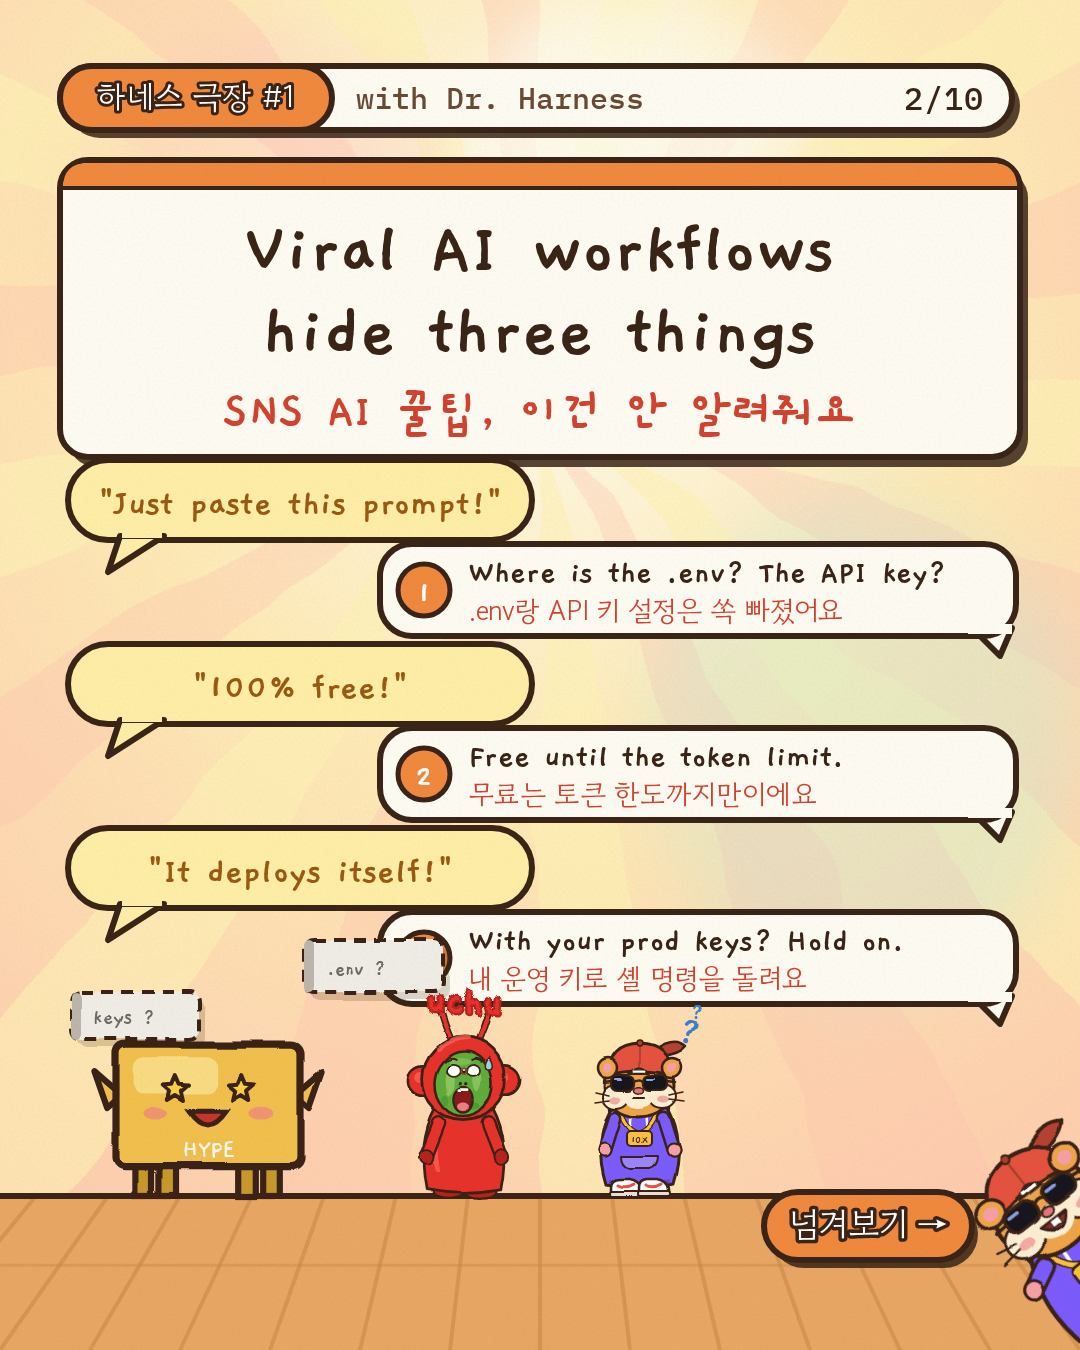
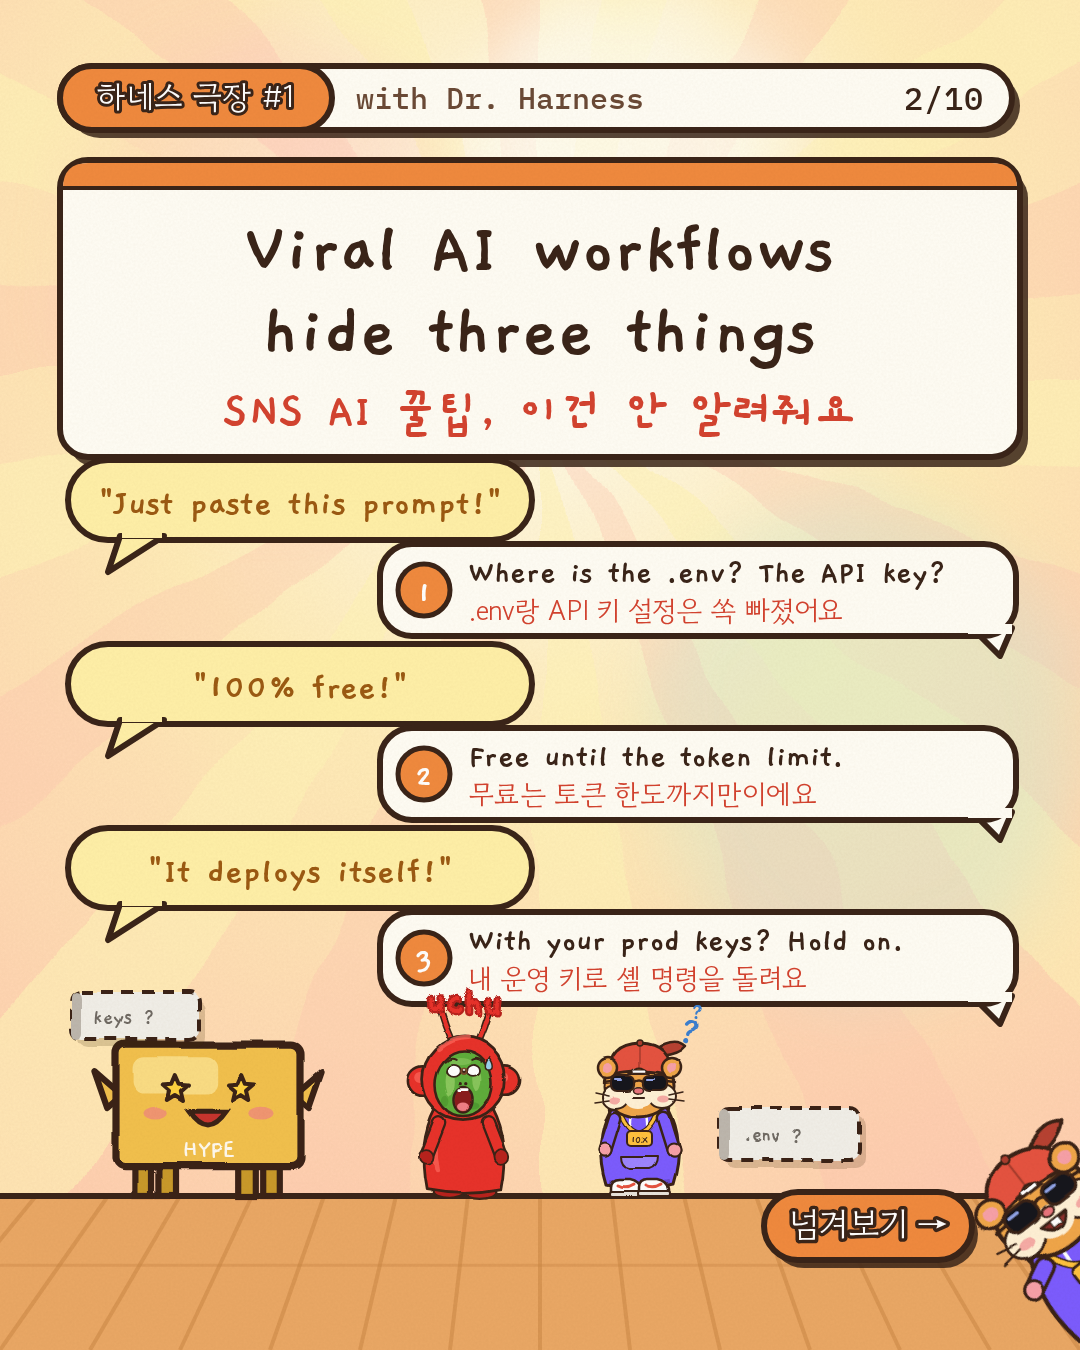
Long-form: add Uchu (8 shots, thumbnail D); hub page facts
Claude-Session: https://claude.ai/code/session_016ywse4vnrK6i452DYWowwZ

Changed region(s): [[0.6417, 0.8089, 0.825, 0.8711], [0.275, 0.6844, 0.4278, 0.7467]]

diff --git a/docs/video/index.html b/docs/video/index.html
@@ -73,11 +73,11 @@
     <div class="formats">
       <article class="fmt">
         <div class="pic"><img src="renders/web/reel_cover.jpg" alt="Vertical 3D cover: the hamster cheers under the words IT SAID FREE." width="540" height="960"></div>
-        <div class="body"><span class="tag" style="background:#ffd23f">Instagram Reel · YouTube Short</span><h3>30-second Reel</h3><p>9:16, 13 shots, payoff-first hook, loop ending.</p><ul><li>Hook: "It said <b>FREE</b>." / "<b>공짜</b>라며?"</li><li>Safe-zone overlay, posting kit, hook alternatives</li><li>Scored by a critic agent, then remade</li></ul><a class="btn" href="reels.html">Open the Reel</a></div>
+        <div class="body"><span class="tag" style="background:#ffd23f">Instagram Reel · YouTube Short</span><h3>30-second Reel</h3><p>9:16, 13 shots, payoff-first hook, loop ending.</p><ul><li>Hook: "It said <b>FREE</b>." / "<b>공짜</b>라며?"</li><li>Safe-zone overlay, posting kit, hook alternatives</li><li>Uchu, the shocked co-star, in the hook and the reveal</li><li>Scored by a critic agent, then remade</li></ul><a class="btn" href="reels.html">Open the Reel</a></div>
       </article>
       <article class="fmt">
         <div class="pic wide"><img src="renders/web/hero_kanban.jpg" alt="3D render: five colored agent boxes and the hamster in front of a four-column Kanban board." width="1280" height="720"></div>
-        <div class="body"><span class="tag" style="background:#8fb8ff">YouTube long-form</span><h3>13:53 deep dive</h3><p>16:9, 34 shots in 8 chapters, full script (about 1,930 words).</p><ul><li>Every 10XAI agent gets an introduction</li><li>Screen-recording beats of the real board</li><li>Thumbnails, titles, description, retention plan</li></ul><a class="btn" href="youtube.html">Open the long-form</a></div>
+        <div class="body"><span class="tag" style="background:#8fb8ff">YouTube long-form</span><h3>14:05 deep dive</h3><p>16:9, 34 shots in 8 chapters, full script (about 1,950 words).</p><ul><li>Every 10XAI agent gets an introduction; Uchu reacts in 8 shots</li><li>Screen-recording beats of the real board</li><li>Thumbnails, titles, description, retention plan</li></ul><a class="btn" href="youtube.html">Open the long-form</a></div>
       </article>
       <article class="fmt">
         <div class="pic"><img src="cardnews/slide-01.png" alt="Card news cover slide: It said FREE. We measured. '무료'라며? 직접 재봤어요" width="1080" height="1350"></div>

diff --git a/docs/video/cardnews.html b/docs/video/cardnews.html
@@ -228,7 +228,7 @@ Theater.install();
         g += tx(234, y + 61, reply, 17, { a: 'start' }) + tx(234, y + 81, ko, 14, { a: 'start', body: true, f: KR });
       });
       g += Theater.box(104, FY, 92, Object.assign({ mood: 'star', label: 'HYPE' }, Theater.PAL.gold));
-      g += Theater.card(152, 470, 70, 26, '.env ?', { kind: 'gap' }) + Theater.card(36, 496, 64, 24, 'keys ?', { kind: 'gap' });
+      g += Theater.card(360, 554, 70, 26, '.env ?', { kind: 'gap' }) + Theater.card(36, 496, 64, 24, 'keys ?', { kind: 'gap' });
       g += Theater.uchu(232, FY, .46, { m: 'shock', sweat: true, look: 'l' });
       g += Theater.doc(320, FY, .5, { m: 'flat', q: true });
       g += peek(a);
@@ -446,7 +446,7 @@ Theater.install();
       roles.forEach((r, i) => { const x = i < 4 ? 52 + i * 44 : 376 + (i - 4) * 42; g += Theater.agent(r, x, FY, 40, { noLabel: true, mood: i % 2 ? 'star' : 'happy' }); });
       g += Theater.doc(236, FY, .62, { m: 'grin', la: [-44, -72], ra: [44, -72] });
       g += Theater.uchu(308, FY, .56, { m: 'grin', la: [-44, -84], ra: [44, -84] });
-      g += Theater.bubble(356, 424, 136, ['저장 완료!'], [322, 482], { z: 22, f: '#c9362f' });
+      g += Theater.bubble(384, 414, 136, ['저장 완료!'], [336, 476], { z: 22, f: '#c9362f' });
       g += `<rect x="180" y="608" width="180" height="28" rx="14" fill="${a}" stroke="${INK}" stroke-width="3"/>` + tx(270, 628, 'Harness Theater #1', 15, { mono: true, f: '#fff' });
       return g;
     } })

diff --git a/docs/video/youtube.html b/docs/video/youtube.html
@@ -754,7 +754,7 @@ const SHOTS = [
     + sign(660, 80, 260, ['10XAI'], { z: 48, fill: '#ffd23f' }) + T(660, 190, 'github.com/tmuchal/10XAI', 20, { f: '#6b3f22' })
     + G(`<circle cx="780" cy="258" r="32" fill="#e5533f" stroke="${INK}" stroke-width="3"/>`) + T(780, 265, 'SUB', 20, { f: '#fff' })
     + doc(560, 428, 1, { ra: [44, -30], la: [-40, -70], m: 'grin' }) + G(`<rect x="604" y="410" width="10" height="26" rx="4" fill="#3b3a44" stroke="${INK}" stroke-width="2" transform="rotate(70 609 423)"/><circle cx="626" cy="419" r="9" fill="#9aa0ad" stroke="${INK}" stroke-width="2"/>`) + T(640, 392, 'thud', 18, { f: '#6b3f22', r: -10 })
-    + ['decompose', 'verify', 'runner'].map((r, i) => agent(r, 680 + i * 50, 428, 44, { arms: 'down', noLabel: true })).join('') + box(820, 428, 50, gold({ mood: 'sheepish', arms: 'down' })) + uchu(495, 428, .58, { m: 'grin' })
+    + ['decompose', 'verify', 'runner'].map((r, i) => agent(r, 680 + i * 50, 428, 44, { arms: 'down', noLabel: true })).join('') + box(820, 428, 50, gold({ mood: 'sheepish', arms: 'down' })) + uchu(478, 428, .56, { m: 'grin' })
     + confetti(20, 17, [480, 60, 830, 240]) }
 ];
 
